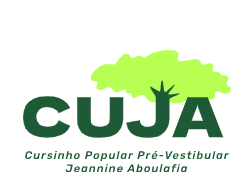
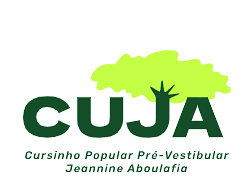
estilizando imagens no site

diff --git a/public/style/index.css b/public/style/index.css
@@ -129,11 +129,23 @@ h1{
     display: flex;
     flex-direction: row;
     justify-content: space-between;
-    align-items: center;
+    width: 36%;
+    margin-top: 60px;
 }
 
-.ismart {
-    margin-top: 50px;
+.ismart img{
+    width: 100%;
+    height: 60%;
+}
+
+.colegio img{
+    width: 100%;
+    height: 60%;
+}
+
+.cuja img{
+    width: 100%;
+    height: 60%;
 }
 
 .historia{
